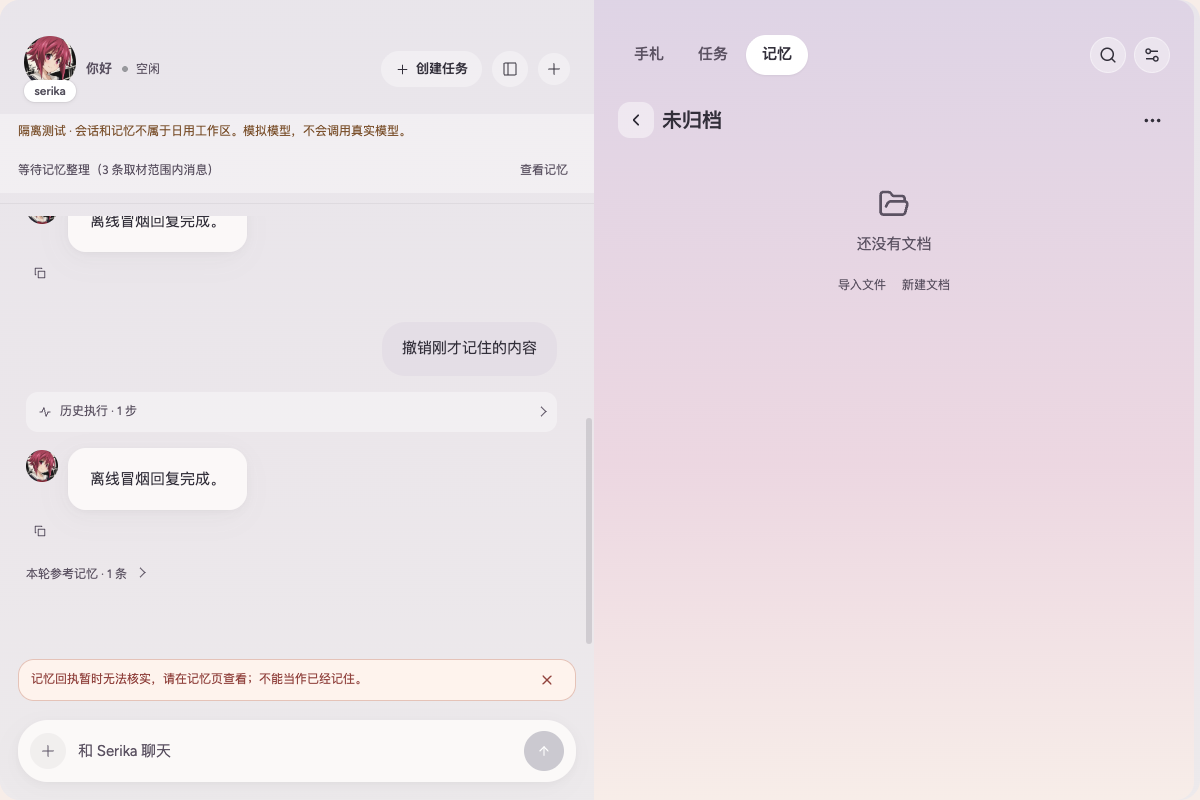
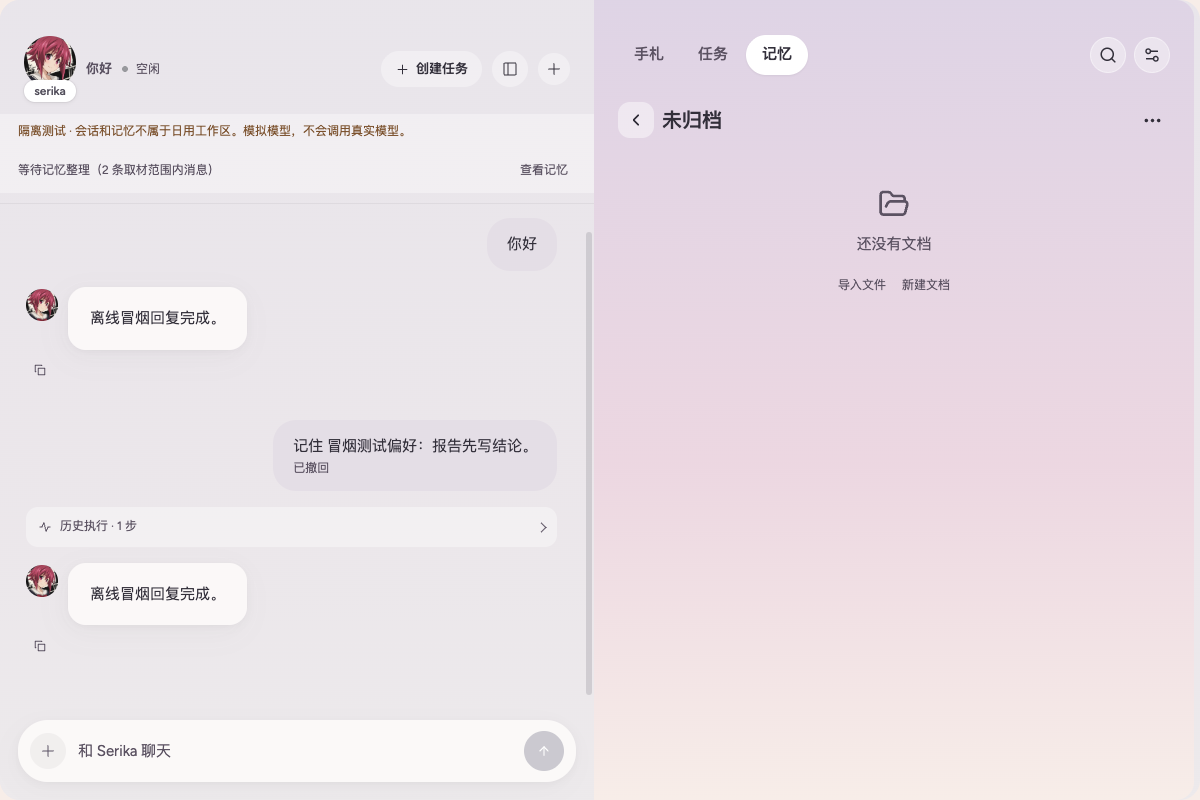
test(desktop): record clean Electron receipt smoke evidence
Built Electron 44.4.5 on macOS, original preload and IPC, isolated v6 data and mock model. Eight checks include successful inline receipt without warnings, receipt-button undo after restart, daily-path refusal and explicitly identified retired-config sample. Source worktree clean at 70b58bf; no paid model calls. Update reproducible counts, hashes and cost ledger.

diff --git a/docs/v2-pilot/cm-step4.md b/docs/v2-pilot/cm-step4.md
@@ -390,10 +390,10 @@
 
 **改了什么**：按 §2.5 从 v6 来源和取代链直接生成回执，删除旧候选／coverage 回执投影；三个现有聊天布局在原话旁显示一行小字与“撤销”，使用现有 Controller 操作和 revision CAS，不改存储格式、工具来源校验或 I1–I5。查过旧约束的 Tool side-effect invariants、M-Local 回执／未知效果、formal-memory management／Temporal Memory C，以及 `receipt-invariants.md`。冒烟新增成功回执项，每项均检查可见 alert、error、warning 和失败状态；仅两项负例放行各自预期错误。日用配置 ENOENT 使用仓库脱敏样例，证据标“样例”；启动前强制干净源码。
 
-**逐条对照**：真实 Electron 复现旧 bug：写入后无错误提示断言失败（1 条红色告警），截图与用户报告相符。触发链（修复前 b30dcc5）：`assistant-controller.ts:407–411` 写成功即发 memory-updated → `runtime-store.ts:553–554` reloadHistory → `runtime-bridge.ts:278–284` → `controller-memory.ts:47` 读当时的 committed transcript → `memory-factual-receipts.ts:25–28` 找不到尚未随 Run 提交的来源，返回不可核实；`runtime-store.ts:307` 经 onError 留下全局告警。三个聊天 renderer 同时漏掉 memoryReceipts 展示。最小回归在 v6 写成功、transcript 未提交时读取回执，旧代码失败、新代码成功；重启、原话挂载、分页、跨 Thread 和坏文件告警仍覆盖。正式原生冒烟待源码提交后在干净工作区运行，证据另一个提交交付。
+**逐条对照**：真实 Electron 复现旧 bug：写入后无错误提示断言失败（1 条红色告警），截图与用户报告相符。触发链（修复前 b30dcc5）：`assistant-controller.ts:407–411` 写成功即发 memory-updated → `runtime-store.ts:553–554` reloadHistory → `runtime-bridge.ts:278–284` → `controller-memory.ts:47` 读当时的 committed transcript → `memory-factual-receipts.ts:25–28` 找不到尚未随 Run 提交的来源，返回不可核实；`runtime-store.ts:307` 经 onError 留下全局告警。三个聊天 renderer 同时漏掉 memoryReceipts 展示。最小回归在 v6 写成功、transcript 未提交时读取回执，旧代码失败、新代码成功；重启、原话挂载、分页、跨 Thread 和坏文件告警仍覆盖。正式原生冒烟从干净提交 `70b58bf` 运行，`sourceWorktreeDirty=false`，8/8 检查完成，8 张截图 hash、主进程身份、renderer UA、重启前后 pid／相同记忆 SHA-256、脚本／构建 hash 已提交在 `evidence/electron-smoke/result.json`。成功回执无告警，重启后点回执“撤销”，文档消失；日用路径规则拒写，隔离哨兵不变。每项 unexpectedErrors=0，两项负例各只允许其预期错误。
 
-**前后数字**：旧 7/7 遗漏回执检查，不能作为回执正常的证据；本次目标 8 项并逐项断言无意外错误。受影响 renderer／真实 bridge 测试 8/8；全套 1,802 pass／0 fail／11 既有 skip（1,159＋631＋12），产品 +1198/−1097，测试 +528/−8757（相对 8c572bb，沿用源码／CSS／JSON 口径，含样例配置；未超过 1,200 行上限）。正式原生结果由后续干净运行证据复算。真实模型请求 0、费用 $0，累计仍 $0.36。
+**前后数字**：旧 7/7 遗漏回执检查，不能作为回执正常的证据；本次目标 8 项并逐项断言无意外错误。受影响 renderer／真实 bridge 测试 8/8；全套 1,802 pass／0 fail／11 既有 skip（1,159＋631＋12），产品 +1198/−1097，测试 +528/−8757（相对 8c572bb，沿用源码／CSS／JSON 口径，含样例配置；未超过 1,200 行上限）。本次修正产品 +98/−83、测试 +23/−8；正式原生结果与全部数字见 `verification.json`，可逐项相加复算。真实模型请求 0、费用 $0，累计仍 $0.36。
 
-**命令与退出码**：旧构建 `node apps/desktop/scripts/electron-smoke.mjs` 加无告警断言后退出 1（真实 Electron＋假模型）；v6 回执回归旧代码退出 1。修复后受影响 renderer／bridge 测试退出 0；`pnpm typecheck`、`pnpm test` 均退出 0，计数／日志 hash 随最终证据提交。脏工作区运行脚本退出 1，拒绝在创建临时目录、启动 Electron 或写证据前继续。
+**命令与退出码**：旧构建 `node apps/desktop/scripts/electron-smoke.mjs` 加无告警断言后退出 1（真实 Electron＋假模型）；v6 回执回归旧代码退出 1。修复后受影响 renderer／bridge 测试退出 0；`pnpm typecheck`、`pnpm test` 均退出 0，计数／日志 hash 见 `verification.json`。正式 `RUNLOOM_SMOKE_DAILY_CONFIG=/tmp/runloom-smoke-config-missing-70b58bf.json pnpm --filter @serika/desktop smoke` 退出 0，真实 Electron 44.4.5＋假模型，macOS 实测。脏工作区运行脚本退出 1，拒绝在创建临时目录、启动 Electron 或写证据前继续。
 
-**差异与限制**：修改旧测试断言：原“缺少 transcript 就不可核实”为错，v6 记录在写入时已校验来源，应直接投影；坏文件仍报错，当前 Thread 限制仍保留，未删保护测试。第 4 到第 6 步只在新建的 v6 测试数据上验证过，日用数据还没验证。付费验收继续暂停，提交推送后等审核。
+**差异与限制**：修改旧测试断言：原“缺少 transcript 就不可核实”为错，v6 记录在写入时已校验来源，应直接投影；坏文件仍报错，当前 Thread 限制仍保留，未删保护测试。第 4 到第 6 步只在新建的 v6 测试数据上验证过，日用数据还没验证。配置分支主动指向不存在的路径，实际使用仓库“样例”，7 个退役字段逐一由生产解析器拒绝，全部移除后通过；不是本轮日用配置的实测结论。新版 Linux/Xvfb 尚未在本机运行，不能把用户上一版的独立 6/7 视为本版通过。查询审核 issue 仍无匹配。付费验收继续暂停，提交推送后等审核。
